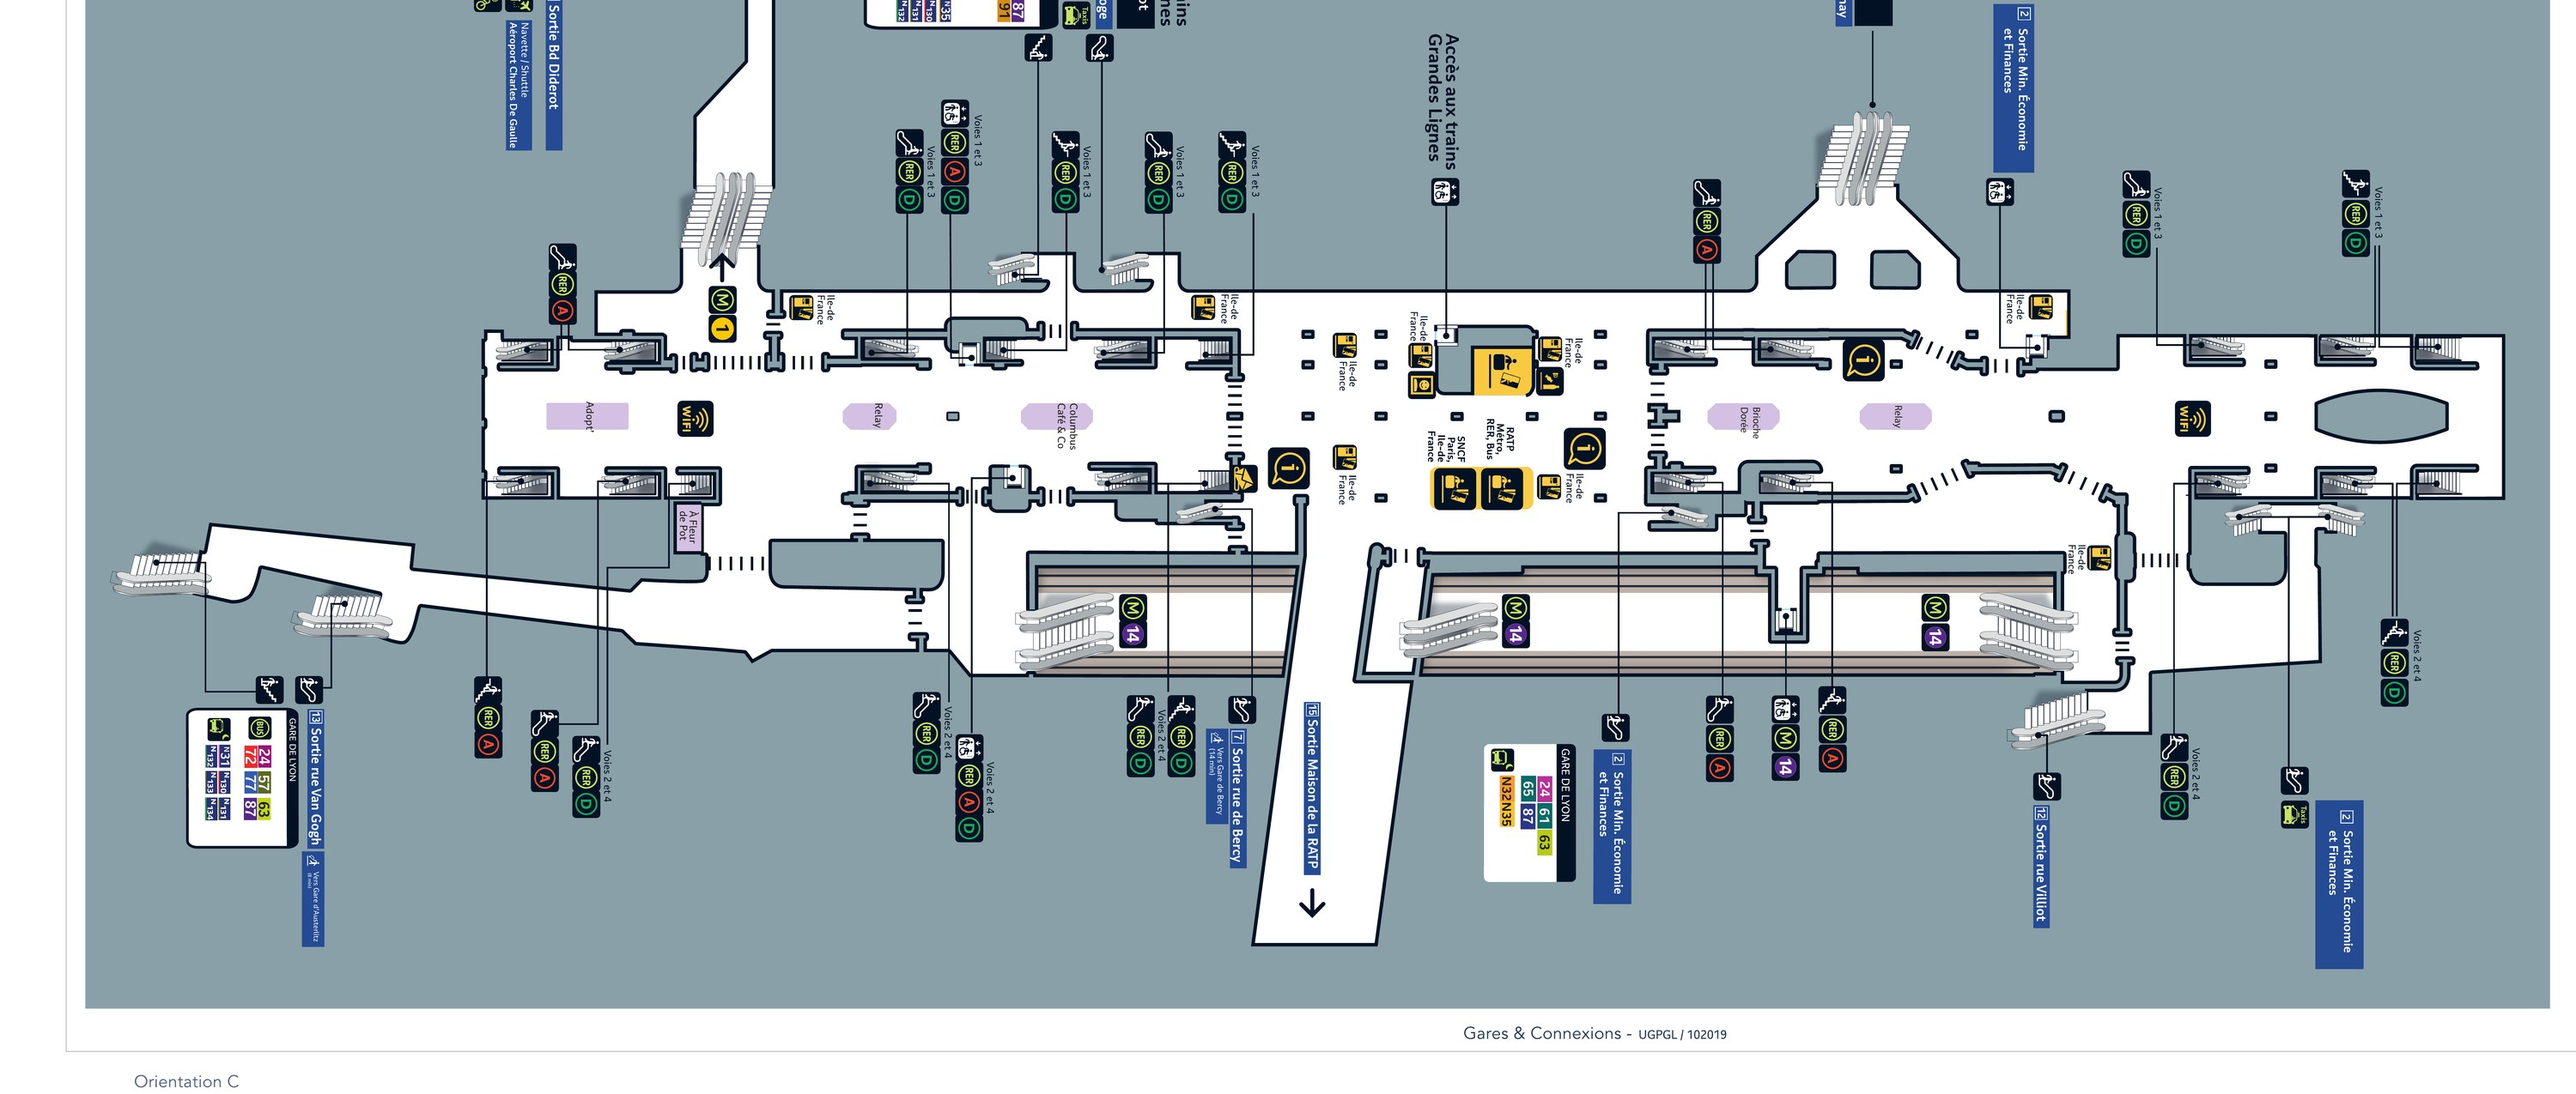
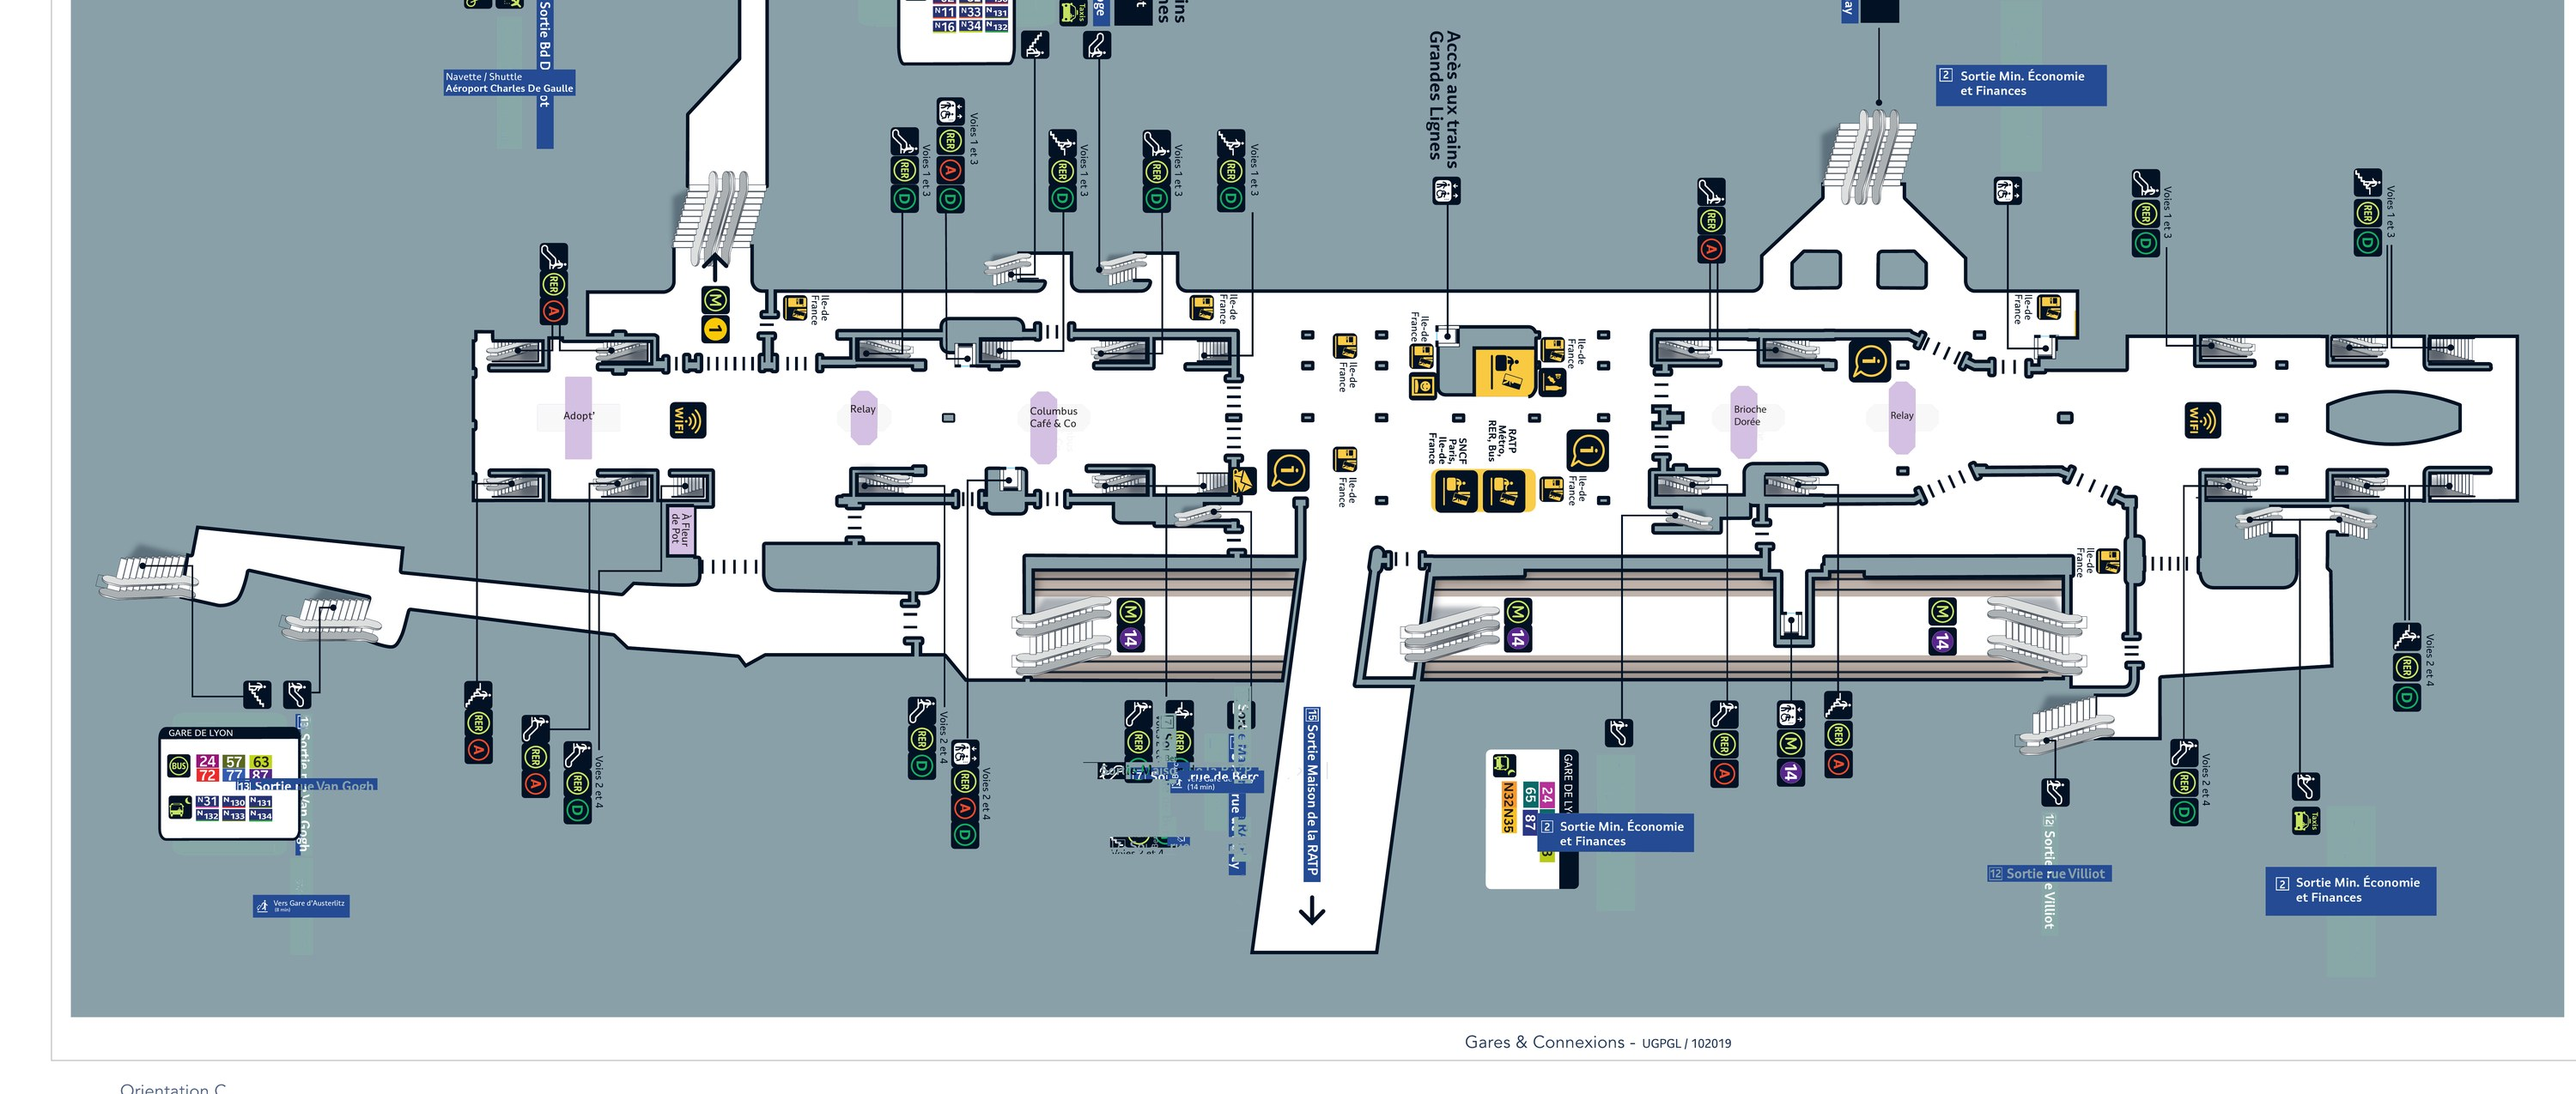
-2 层底图：官方 PDF 渲染并转正全部文字/图标标识；域说明移至图外、去除图内标注

diff --git a/stations/gare-de-lyon.html b/stations/gare-de-lyon.html
@@ -199,50 +199,17 @@
 
     <h2>换乘大厅（-2 层）放大</h2>
     <div class="panel scroll-x">
-      <svg viewBox="0 0 1500 590" style="width: 100%; min-width: 1100px; height: auto; font-family: inherit;">
-  <text x="24" y="20" font-size="13" style="fill:var(--text-dim)">按 SNCF 官方 -2 层信息图复刻 · 地铁域/RER域着色 · 深色实线＝闸机 · 上＝北 · 下＝南</text>
-  <image href="../assets/img/map-base.jpg" x="0" y="6" width="1338" height="569" preserveAspectRatio="none" />
-  <image href="../assets/img/map-domains.png" x="0" y="6" width="1338" height="569" preserveAspectRatio="none" opacity="0.42" />
-  <g stroke="#0f0f19" stroke-opacity="0.95" stroke-width="2.6" stroke-linecap="round">
-    <line x1="641.3" y1="200.1" x2="640.9" y2="242.5"/>
-    <line x1="348.3" y1="193.4" x2="428.6" y2="194.3"/>
-    <line x1="539.7" y1="177.8" x2="556.6" y2="177.8"/>
-    <line x1="364.4" y1="298.8" x2="401.0" y2="298.3"/>
-    <line x1="447.3" y1="268.9" x2="447.8" y2="286.3"/>
-    <line x1="475.9" y1="317.9" x2="476.3" y2="338.0"/>
-    <line x1="497.3" y1="263.1" x2="513.8" y2="263.1"/>
-    <line x1="536.1" y1="265.3" x2="557.9" y2="264.8"/>
-    <line x1="403.2" y1="167.6" x2="403.2" y2="182.7"/>
-    <line x1="861.7" y1="197.5" x2="861.7" y2="244.3"/>
-    <line x1="993.7" y1="263.5" x2="1021.3" y2="248.8"/>
-    <line x1="991.9" y1="180.0" x2="1017.8" y2="195.2"/>
-    <line x1="1031.2" y1="197.0" x2="1050.8" y2="197.0"/>
-    <line x1="1070.4" y1="251.0" x2="1092.7" y2="262.2"/>
-    <line x1="1110.1" y1="297.9" x2="1139.1" y2="297.0"/>
-    <line x1="913.4" y1="277.3" x2="913.4" y2="288.9"/>
-    <line x1="1103.8" y1="335.8" x2="1103.4" y2="352.8"/>
-    <line x1="641.8" y1="279.1" x2="641.8" y2="293.8"/>
-    <line x1="720.7" y1="296.1" x2="735.0" y2="296.1"/>
-  </g>
-  <g font-size="14" font-weight="700" text-anchor="middle" paint-order="stroke" stroke="#fff" stroke-width="3.5" stroke-linejoin="round">
-    <text x="773" y="254" style="fill:#3d5261">【免费域】换乘大厅（闸机外）</text>
-    <text x="1043" y="293" style="fill:#640082">【地铁域】M14 站台</text>
-    <text x="1084" y="229" style="fill:#008b5b">【RER域】扶梯/楼梯下去 → RER D（-3）・RER A（-4）</text>
-  </g>
-  <g font-size="12" style="fill:var(--text-dim)">
-    <rect x="1346" y="30" width="30" height="14" fill="#a855f7" fill-opacity="0.55" stroke="#c9c4ba" stroke-width="1"/>
-    <text x="1384" y="42">地铁域（M14）</text>
-    <rect x="1346" y="52" width="30" height="14" fill="#00a854" fill-opacity="0.55" stroke="#c9c4ba" stroke-width="1"/>
-    <text x="1384" y="64">RER域（A/D）</text>
-    <text x="1346" y="88">不着色＝免费域</text>
-  </g>
+      <svg viewBox="0 0 1500 608" style="width: 100%; min-width: 1100px; height: auto; font-family: inherit;">
+  <text x="24" y="17" font-size="13" style="fill:var(--text-dim)">按 SNCF 官方 -2 层信息图复刻（标识已转正）· 上＝北 · 下＝南</text>
+  <image href="../assets/img/map-base.jpg" x="0" y="24" width="1338" height="569" preserveAspectRatio="none" />
+  <image href="../assets/img/map-domains.png" x="0" y="24" width="1338" height="569" preserveAspectRatio="none" opacity="0.42" />
 </svg>
     </div>
     <p class="note" style="margin-top: 0.6rem;">
-      图中地铁域、RER域以颜色标出，<strong>不着色的地面＝免费域</strong>；深色实线＝闸机/分界线。<strong>刷几次卡，取决于你穿过几道闸机</strong>：
+      图中地铁域、RER域以颜色标出，<strong>不着色的地面＝免费域</strong>。<strong>刷几次卡，取决于你穿过几道闸机</strong>：
       <br /><strong>① <span style="color:var(--text-dim)">免费域</span>（闸机外）</strong>——换乘大厅、商铺、服务点，谁都能站，刷 0 次；
-      <br /><strong>② <span style="color:var(--m14)">地铁域</span>（M14）</strong>——从免费域进它刷 1 次，出站走单向门、不刷；
-      <br /><strong>③ <span style="color:var(--rer-d)">RER域</span>（RER A / D）</strong>——从免费域进它刷 1 次，<strong>出站也刷</strong>（按里程计费）；
+      <br /><strong>② <span style="display:inline-block;width:11px;height:11px;border-radius:3px;background:#a855f7;vertical-align:-1px" aria-hidden="true"></span> <span style="color:#a855f7">地铁域</span>（M14）</strong>——从免费域进它刷 1 次，出站走单向门、不刷；
+      <br /><strong>③ <span style="display:inline-block;width:11px;height:11px;border-radius:3px;background:#00a854;vertical-align:-1px" aria-hidden="true"></span> <span style="color:#00a854">RER域</span>（RER A / D）</strong>——从免费域进它刷 1 次，<strong>出站也刷</strong>（按里程计费）；
       <br /><strong>④ 地铁 ↔ RER 换乘</strong>——地铁域和 RER域<b>不直接连通</b>，跨域要过两道闸机，
       因此 RER ↔ M14 换乘、或从街面横穿 RER 区去坐地铁，都要刷<b>两次</b>。
       <br /><strong>⑤ 能去不能原路回</strong>——「⇢」的出口方向多为单向门/单向闸机，出去容易、回程要绕到有进站闸机的那条线。

diff --git a/AGENTS.md b/AGENTS.md
@@ -52,10 +52,11 @@ _headers                     /assets/* 缓存 5 分钟
    - 迷路高发区（如换乘大厅）值得单独开放大图。
 7. **数据核实时用最新来源**：法语维基百科、RATP、Île-de-France Mobilités、OSM Overpass（需带 User-Agent 否则 406）。
 
-## 5. 当前进度（2026-08-04）
+## 5. 当前进度（2026-08-30）
 
 - 三页 + 首页导航已上线，CF Pages 部署正常（生产域 paris-metro.snownamida.top，custom domain 的 Browser Cache TTL 被 zone 覆盖为 4h，靠 ?v=N 兜底）。
-- 里昂站页已完成：平面示意图（拓扑修正版）、iso.js 等轴测五层剖视图（含 L 形 Galerie des Fresques、带拐臂的 Hall 3）、-2 层换乘大厅 1:1 实测图（97 点轮廓 + 20 组闸机线（Overpass barrier=turnstile 实测，经仿射变换映射，平行/垂直/±25° 三族角度）+ 付费区 + 官方图结构：两条 RER 梯带、中央服务排、东侧商铺排、公交站区、方向连接）。
+- 里昂站页已完成：平面示意图（拓扑修正版）、iso.js 等轴测五层剖视图（含 L 形 Galerie des Fresques、带拐臂的 Hall 3）。
+- **-2 层换乘大厅图（2026-08-30 重做）**：SNCF 官方 PDF（refs/gare-de-lyon/sncf-plan-niveau--2-rer-metro.pdf）200dpi 渲染 → 顺时针转 90° → 裁剪 (raw 坐标窗口 (50,2650) 8333×3542 → 3000×1275) = `assets/img/map-base.jpg`。官方 PDF 的文字/图标是竖版排版（横版看全躺倒），已用「掩膜旋转贴回」管线把窗口内文字块与蓝牌逐个转正（脚本思路：连通域/几何掩膜 + inpaint 擦除 + CCW 90° 贴回；等距扶梯画与 3 块与 Navette 横幅冲突/复杂交织的牌保持官方原样）。三域着色 `assets/img/map-domains.png`（用户用 tools/domain-painter.html 手工 flood-fill 标注生成，免费域不着色）；域的说明放图下方文字，图内无任何叠加标注。
 - 最近一轮非网站任务：分析了 Compagnon Train APK（RATP 报站 app）——结论：无任何后台机制（无自有 Service、无前台服务、无后台定位权限，扫描绑定 MainActivity onPause/onResume），后台不报站是设计使然，无解。
 
 ## 6. 待办与待确认（等用户决定）
@@ -68,6 +69,6 @@ _headers                     /assets/* 缓存 5 分钟
 
 ## 7. 验证方式
 
-- 无头 Chrome 截图：`"/Applications/Google Chrome.app/Contents/MacOS/Google Chrome" --headless --disable-gpu --window-size=1440,6000 --screenshot=/tmp/x.png --virtual-time-budget=4000 file://…`
-- **注意：当前模型（deepseek-v4-flash）text-only 看不了截图**——用 HTML/SVG 源码核对 + 需要时把 PDF 用 `pdftotext -bbox` 提取坐标核对。
+- 无头 Chrome 截图：`"/Applications/Google Chrome.app/Contents/MacOS/Google Chrome" --headless --disable-gpu --window-size=1440,9000 --screenshot=/tmp/x.png --virtual-time-budget=5000 file://…`
+- 当前模型可直接看图（Read 工具读 PNG/JPG）；之前的 pdf-reader/vision 子代理（走 OpenAI key）已按用户要求删除，别再新建。
 - 改完记得 git status 干净 + 推送后确认线上已部署（curl 线上 HTML 查 ?v= 号）。
